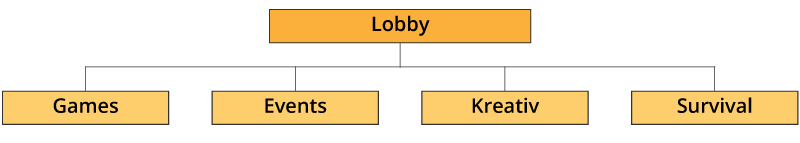
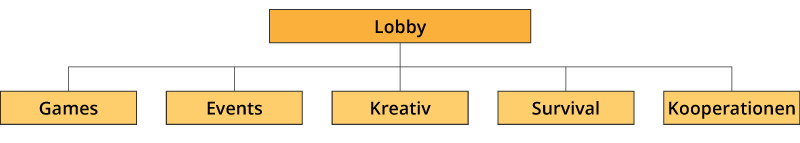
Adding cooperation server to server overview

diff --git a/docs/serverlist/index.md b/docs/serverlist/index.md
@@ -55,3 +55,17 @@ Auf dem Survival-Server spielt unsere Minecraft-Community nach Lust und Laune Mi
 Der Server wird nicht für didaktische Zwecke verwendet, bleibt also recht unabhängig und wird von unseren Supportern moderiert. Es gibt natürlich ein [Regelwerk für den Survival-Server](https://canstein-berlin.de/regeln-im-survival-server), um ein angenehmes Miteinander zu ermöglichen. Durch gesicherte Regionen haben sich mit der Zeit auch ganze Dörfer und Gruppierungen gebildet, in denen die Spieler in ihrer "Gilde" zusammenbauen und zusammenspielen. Aber auch sonst herrscht auch auf dem Survival-Server ein freundliches und hilfsbereites Klima.
 
 Auch auf dem Survival-Server finden ab und zu kleinere Events statt. Diese werden dann von Teammitgliedern oder freiwilligen Stammspieler vorbereitet.
+
+## Kooperation-Server
+
+![Kooperation-Server](./images/server/Kooperation.png)
+
+**Befehl:** `/cooperation` (kurz :`/co`)
+
+Auf dem Kooperation-Server befinden sich die Projekt- und Spielwelten unser Kooperations-Partner: Hier schaffen wir den Raum für andere pädagogische Vereine, kirchliche Einrichtungen u.ä., damit diese sich mit ihrem eigenen Team und unter ihrem eigenen Namen mit Minecraft frei entfalten können, ohne dass sie ihren eigenen Server benötigen.
+
+Aktuell können die Welten der folgenden Partnerschaften erreicht werden:
+- Ev. Kirchengemeinde Frankfurt (Oder) / Lebus: `/warp ffo-spawn`
+- Ev. Kirchenkreis Gladbach-Neuss und Umgebung: `/warp glne-spawn`
+
+Weitere Informationen zu unseren Kooperations-Angeboten sind in der Rubrik [Kooperation](../cooperation/index.md) beschrieben.
